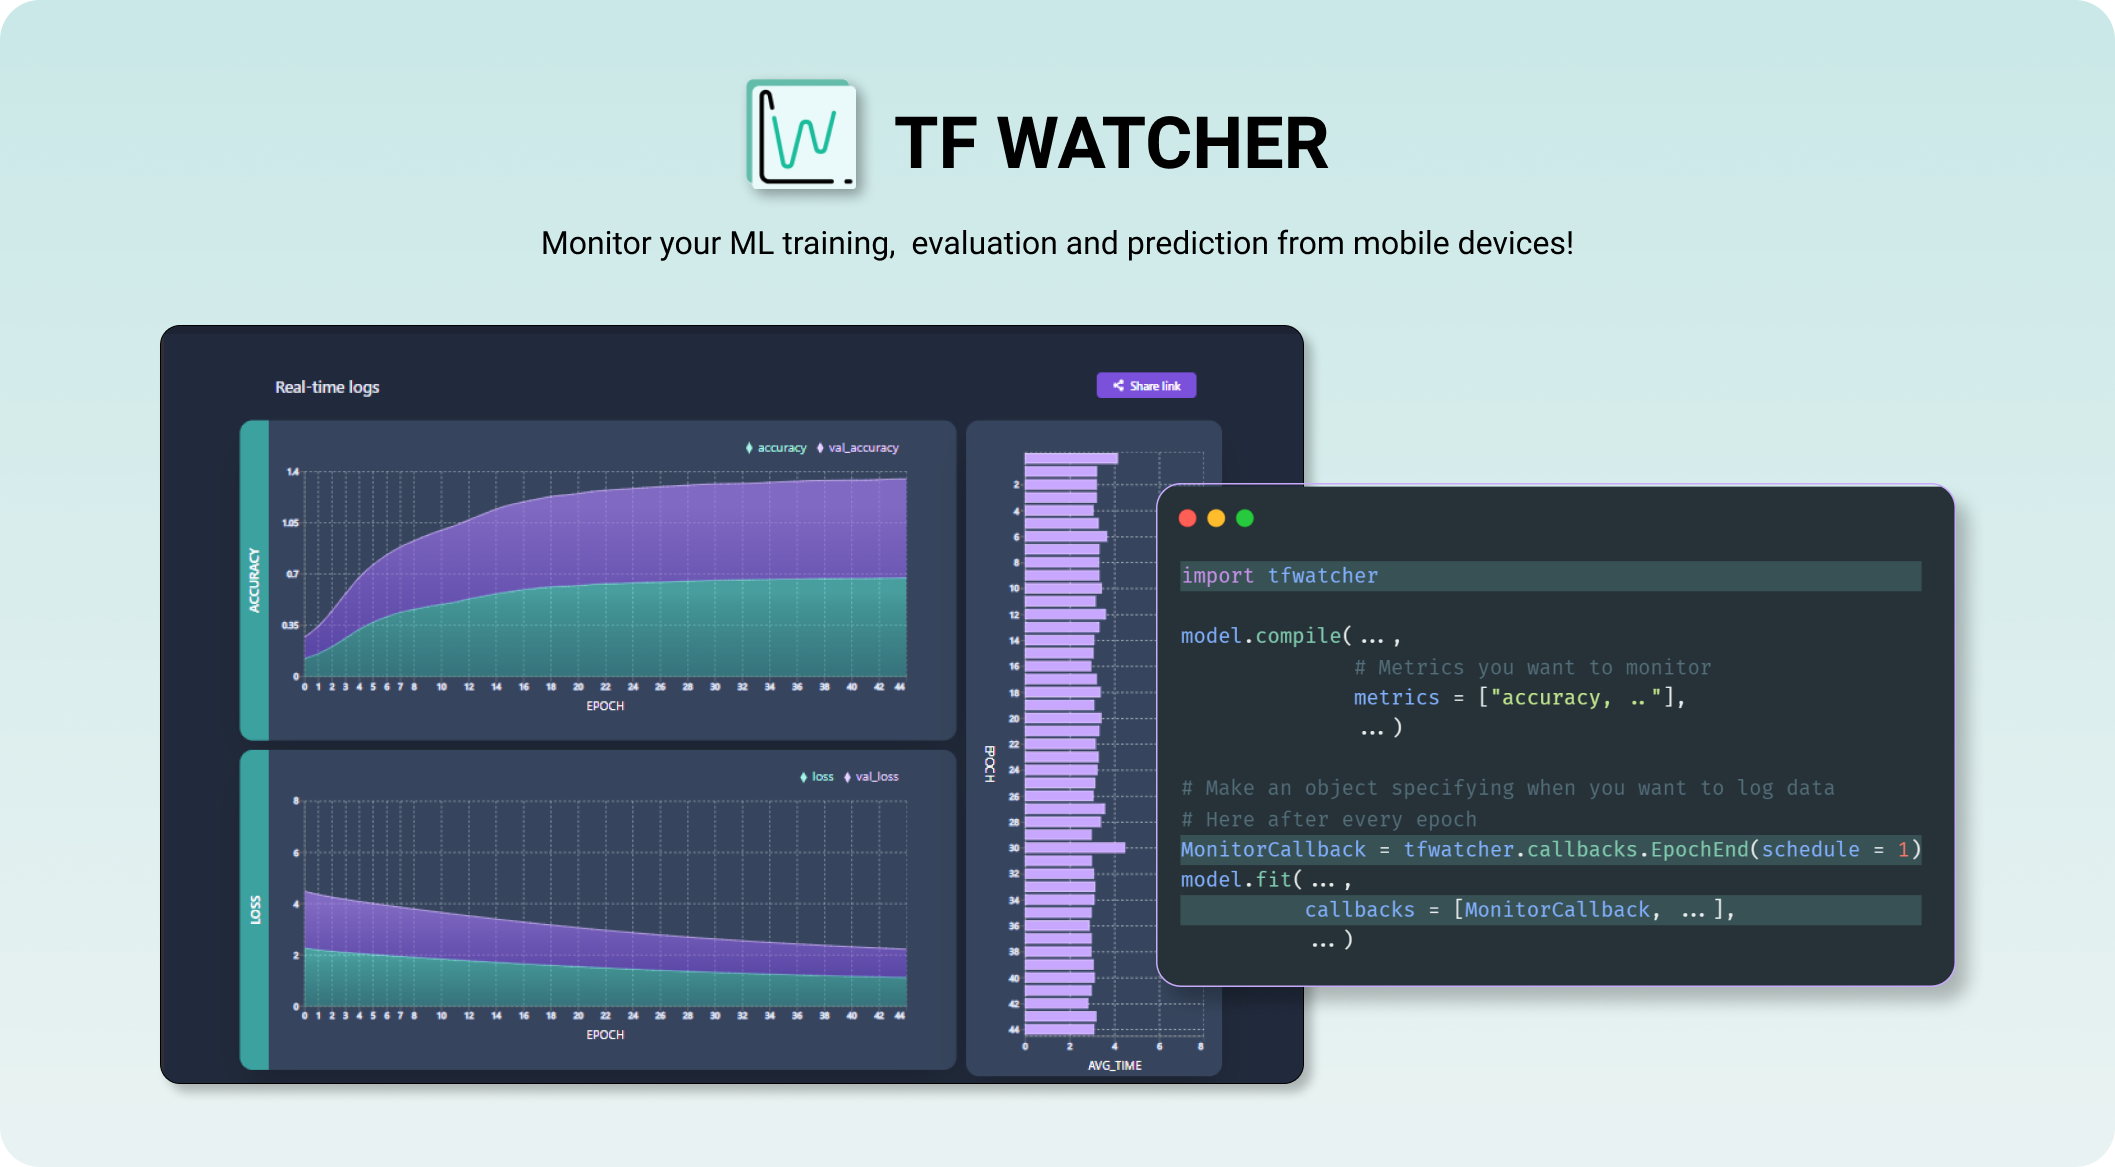
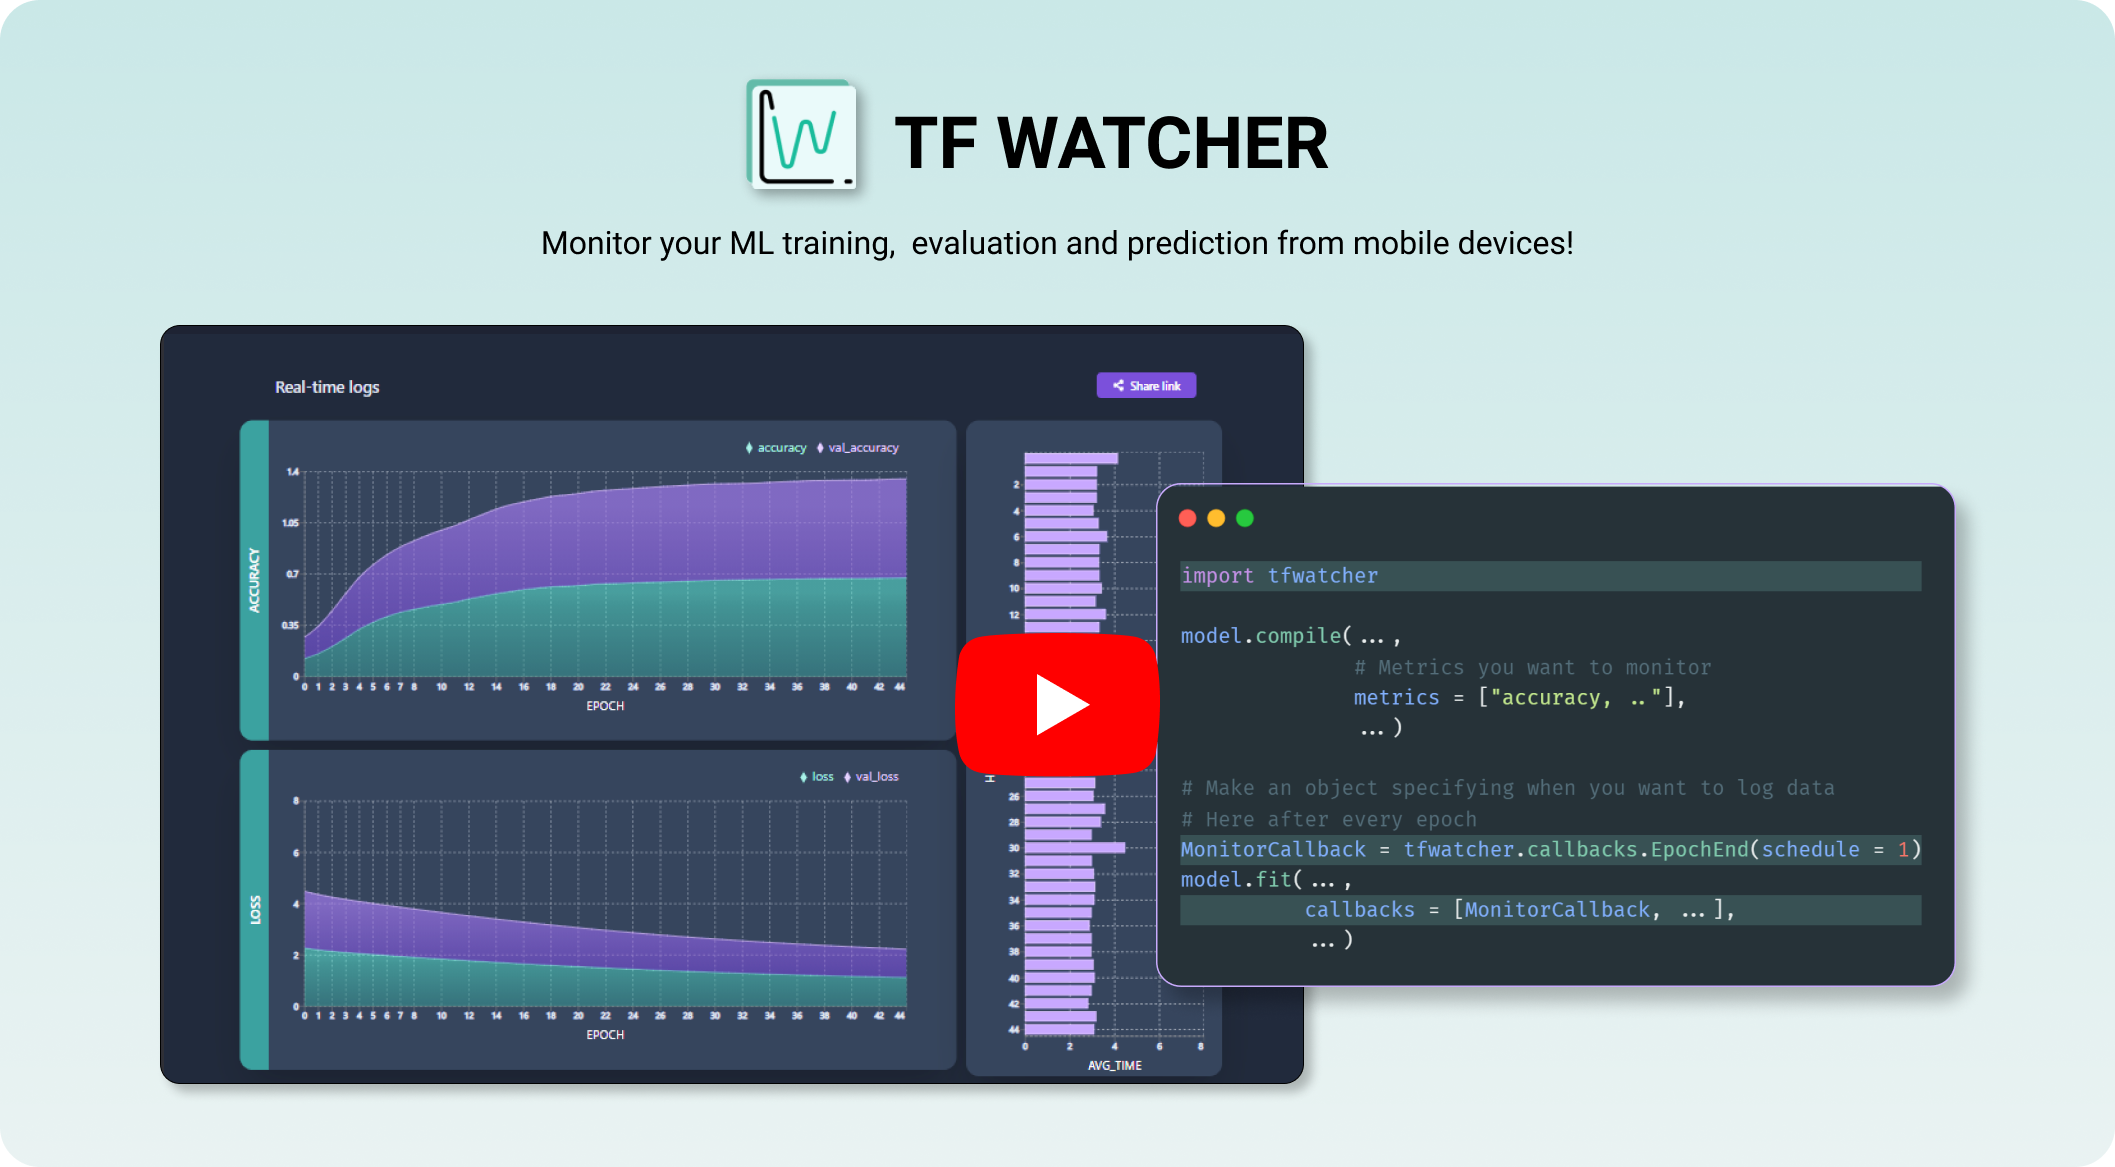
Update cover image

Changed region(s): [[0.4369, 0.5244, 0.5617, 0.6787]]

diff --git a/README.md b/README.md
@@ -1,4 +1,4 @@
-![](media/cover.png)
+[![](media/cover.png)](https://www.youtube.com/watch?v=jFYiZKQa6JQ)
 
 # TF Watcher [![Twitter URL](https://img.shields.io/twitter/url?style=social&url=https%3A%2F%2Fgithub.com%2FRishit-dagli%2FTF-Watcher)](https://twitter.com/intent/tweet?text=Wow:&url=https%3A%2F%2Fgithub.com%2FRishit-dagli%2FTF-Watcher)
 
